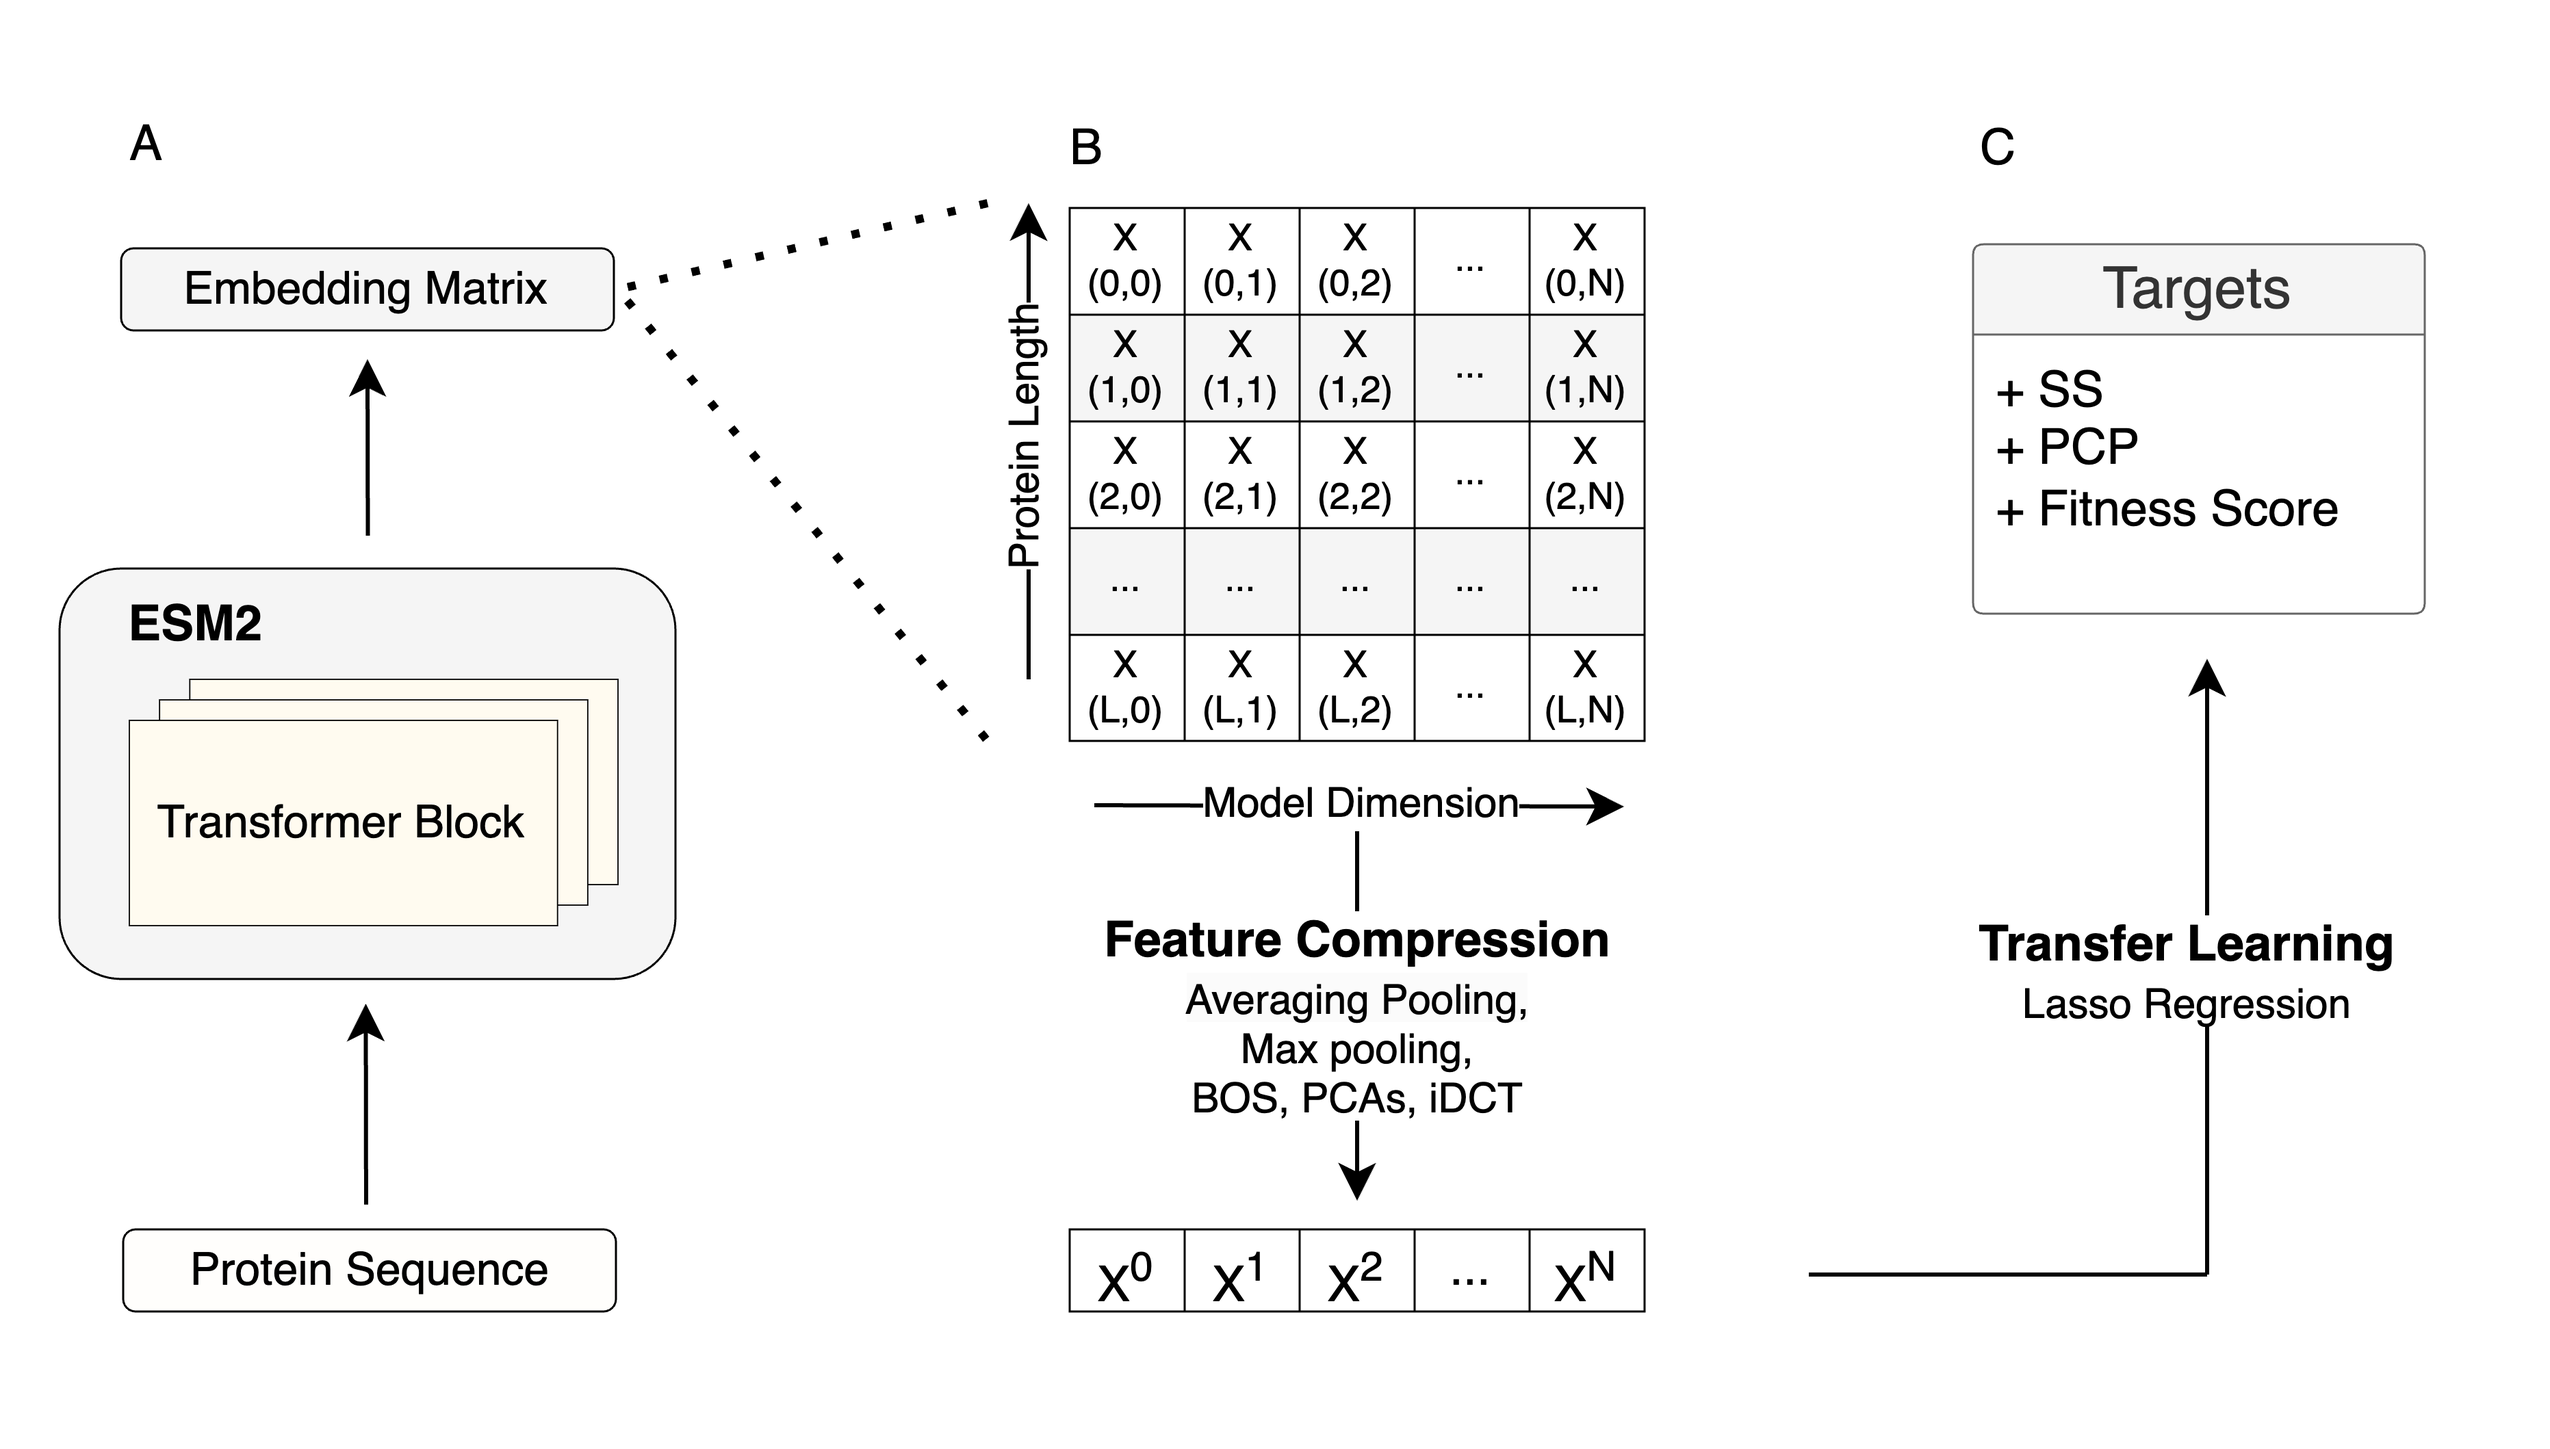
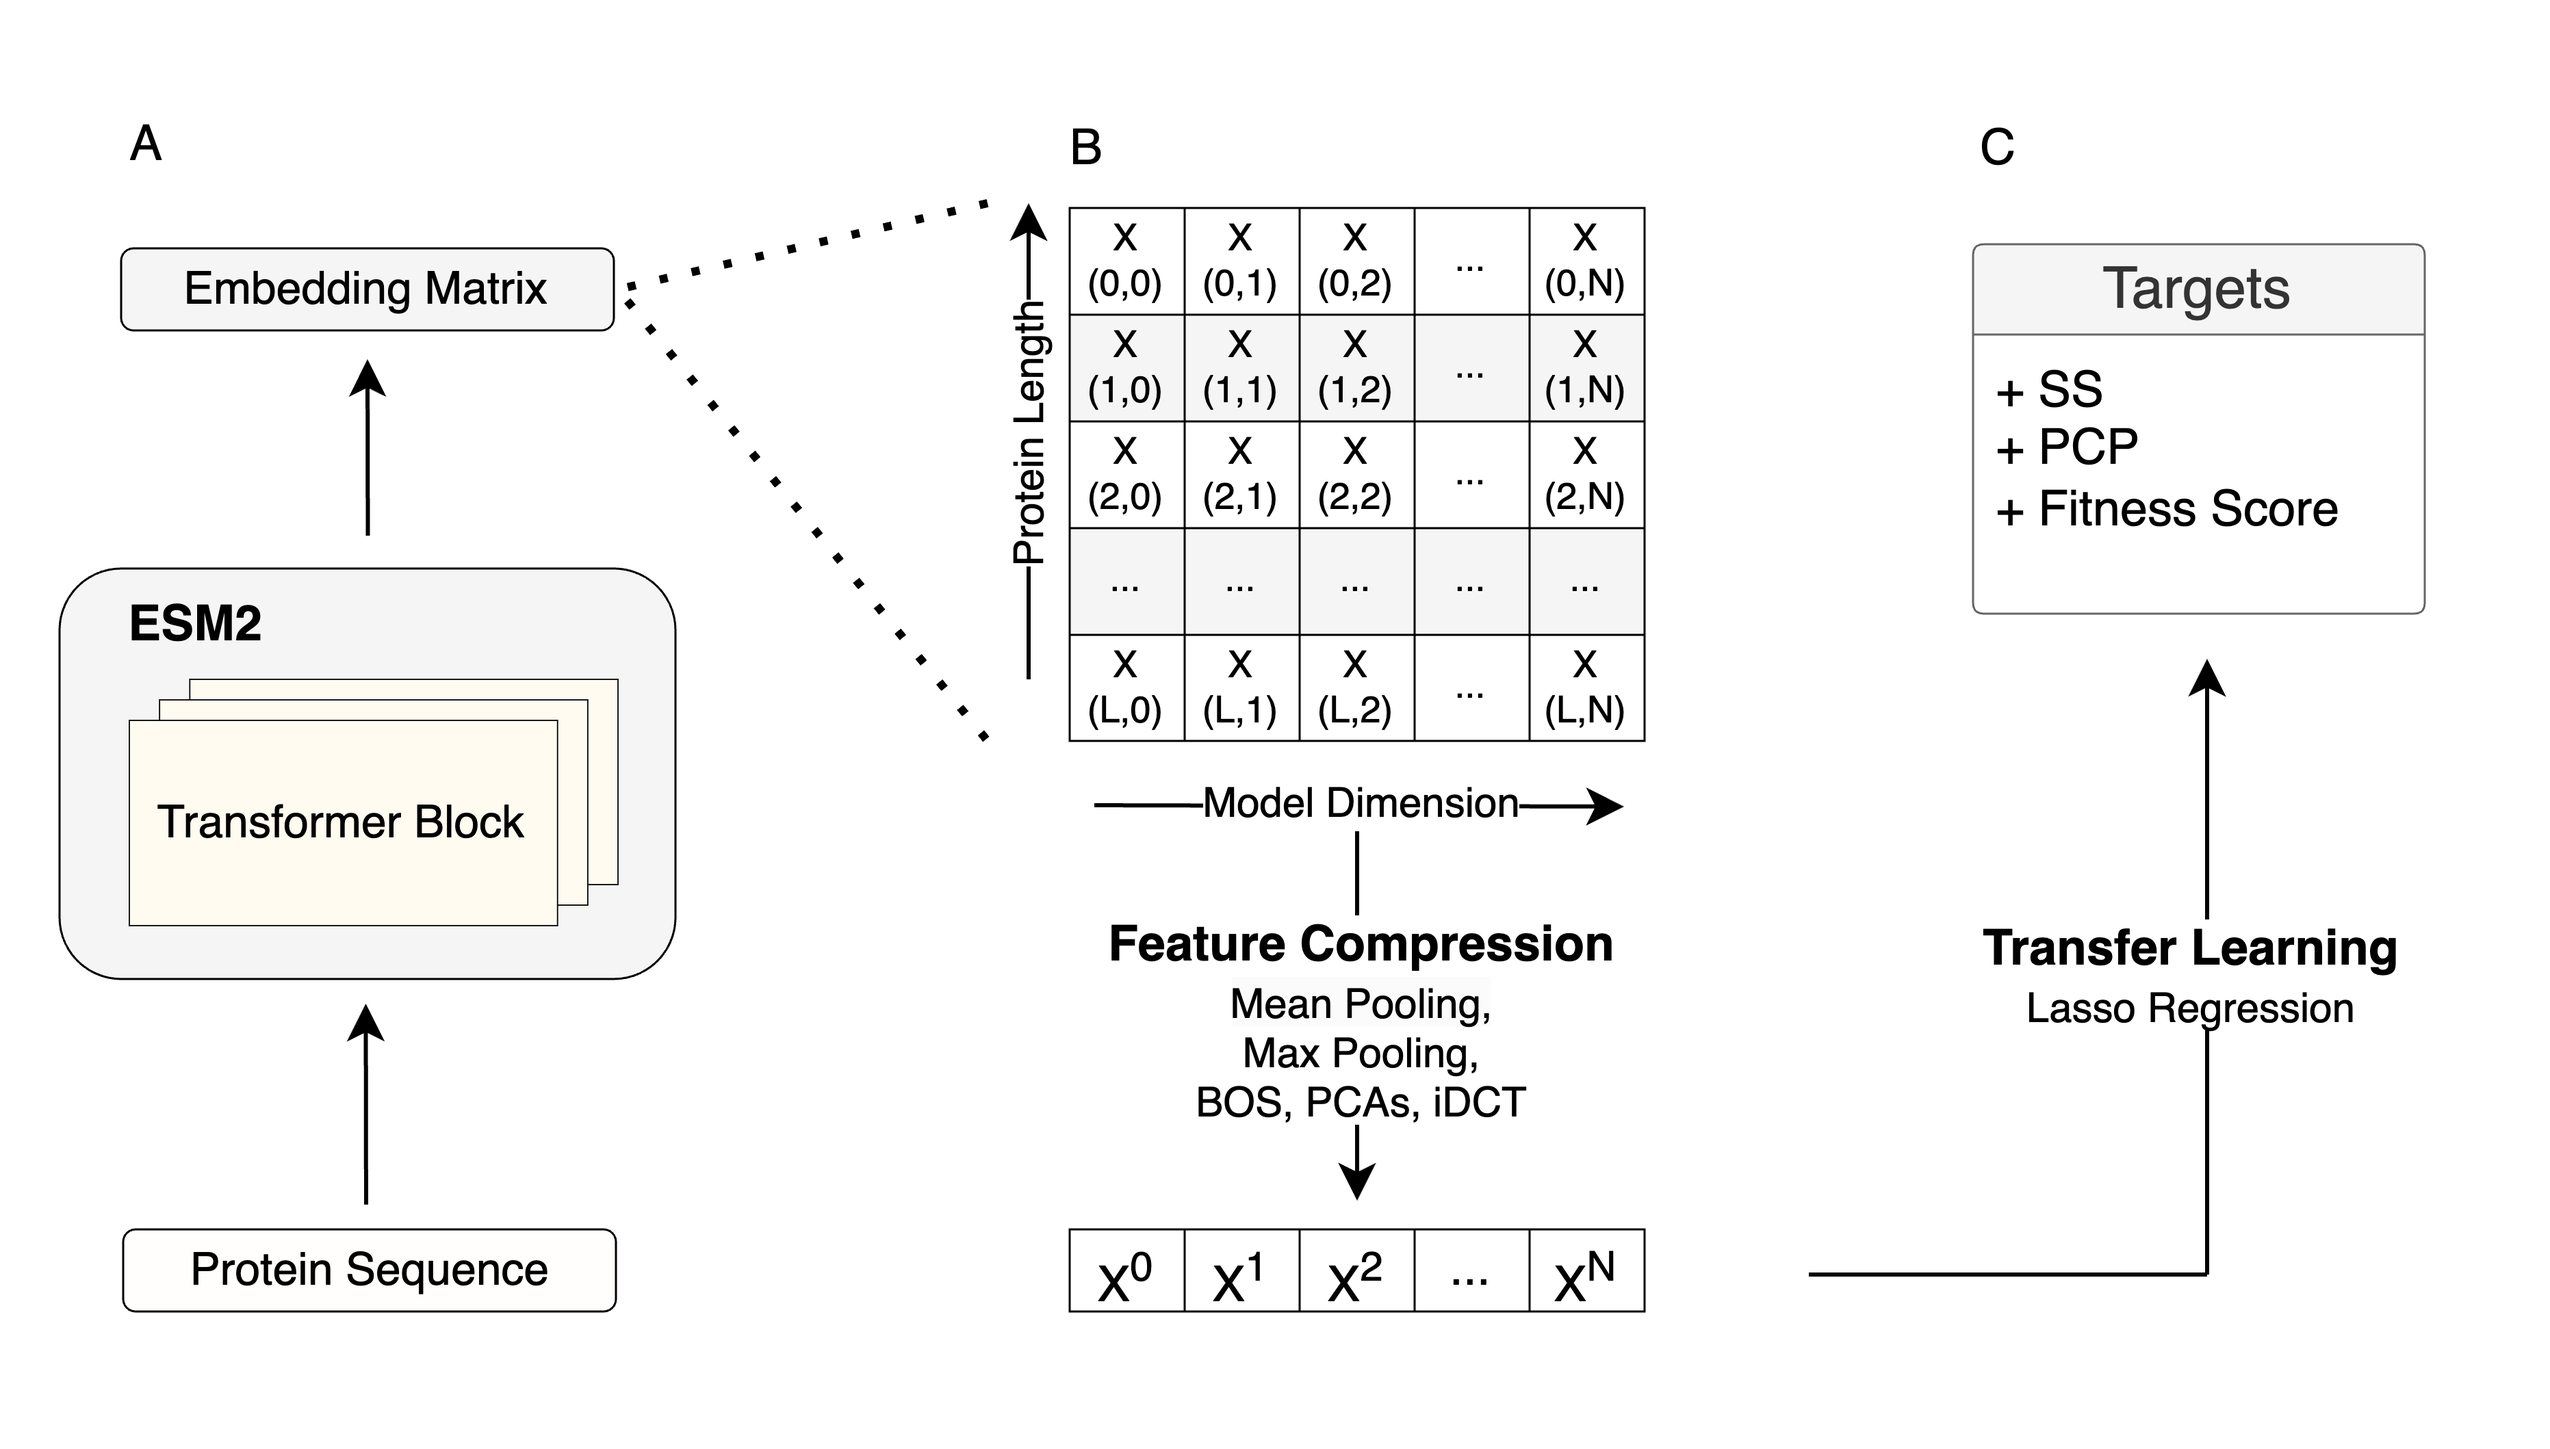
editing readme

diff --git a/README.md b/README.md
@@ -2,37 +2,23 @@
 [![author](https://img.shields.io/badge/author2-Morgan_Handojo-blue.svg)](https://www.linkedin.com/in/morgan-handojo/) 
 [![The Wilke Lab](https://img.shields.io/badge/Wilke-Lab-brightgreen.svg?style=flat)](https://wilkelab.org) 
 [![](https://img.shields.io/badge/python-3.8+-yellow.svg)](https://www.python.org/downloads/release/python) 
-[![contributions welcome](https://img.shields.io/badge/contributions-welcome-brightgreen.svg?style=flat)](https://github.com/ziul-bio/SWAT/issues) 
 [![GPLv3 license](https://img.shields.io/badge/License-GPLv3-lightgrey.svg)](http://perso.crans.org/besson/LICENSE.html)
 
 
-# Bigger is not always better in protein language models
+# Scaling Down for Efficiency: Medium-Sized Transformer Models for Protein Sequence Transfer Learning
 ![plot](/figures/fig1_scheme.png)
 
 
 # About the project:
 
-## Overview
+## Abstract
 
-The trend of increasing size in Protein Language Models (pLMs) necessitates the benchmarking of model performance. Due to larger models requiring much more computational power, it is important to save time and resources whenever possible while consistently achieving the most accurate results. While common sense may say that bigger == better, biological complexity and dataset size limitations/diversity can complicate analysis. 
-
-This project offers an in-depth investigation into optimizing transfer learning with Evolutionary Scale Modeling 2 (ESM2) by evaluating the performance of the model's embeddings across different parameter sizes to determine the impact of size on transfer learning in biological datasets. 
-
-### Objective
-
-This project aims to create a deeper understanding of the relationship between model size and maximizing transfer learning using three of ESM2's available parameters sizes: 150M, 650M, and 15B. To investigate this, we benchmarked the perfomance of each of these models on different types of data: highly homogenous Deep Mutational Scanning (DMS) datasets as well as a diverse data from PISCES: A Protein Sequence Culling Server.
-
-### Methodology
-
-* utilized ESM2 (150M, 650M, 15B) to extract protein embeddings from the datasets
-* compressed embeddings to reduce dimensionality, with the best method determined to be average pooling
-* evaluated predictive performance using LassoCV regression
-* statistical analysis performed using a linear mixed-effects model
+Protein language models such as the  transformer-based Evolutionary Scale Modeling 2 (ESM2) can offer deep insights into evolutionary and structural properties of proteins. While larger models, such as ESM2 15B, promise to capture more complex patterns in sequence space, they also present practical challenges due to their high dimensionality and high computational cost. We systematically evaluated the performance of all ESM2 models across many biological datasets to determine the impact of model size on transfer learning. Surprisingly, larger models do not always outperform smaller ones, especially when data is limited. Medium sized models, such as ESM2 650M, exhibited consistent performance, falling only slightly behind the 15B parameter model despite being over 20 times smaller. Additionally, we compared various methods of embedding compression to identify the most effective approach, and we found that mean embeddings consistently outperformed other compression methods. Our results show that ESM2 650M with mean embeddings offers an optimal balance between performance and efficiency, making it a practical and scalable choice for transfer learning in a variety of biological applications. 
 
 
-### Innovation and Impact
+### Significance
 
-By enhancing our understanding of the impact of model size on analysis, we can instead focus on finding new ways to optimize performance by improving smaller models rather than scaling up in size. This will create greater accessibilty for analysis, especially for projects that may not have the resources or computational power to implement larger models.
+This work challenges the common belief that larger language models always yield better results, here in the context of protein biochemistry. By systematically comparing transformer models of different sizes in transfer learning tasks, we demonstrate that medium size models, such as ESM2 650M, frequently perform as well as larger variants, specially when data is limited. These findings provide a more efficient strategy for machine learning-based protein analysis and promote the broader accessibility of AI in biology. Smaller, more efficient models can help democratize advanced machine-learning tools, making them more accessible to researchers with limited computational resources
 
 
 **Keywords:** ESM2 | pLM Embeddings | Feature compression | Transfer Learning 
